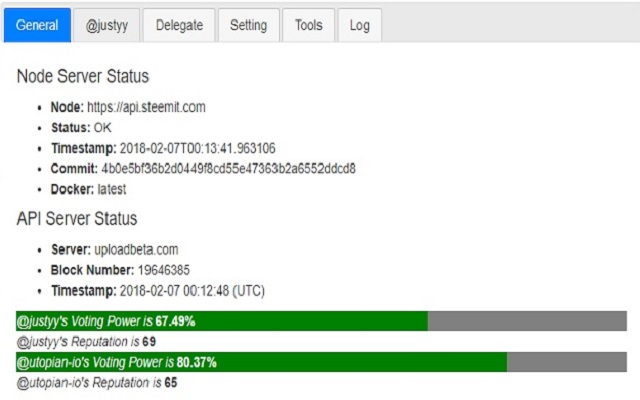
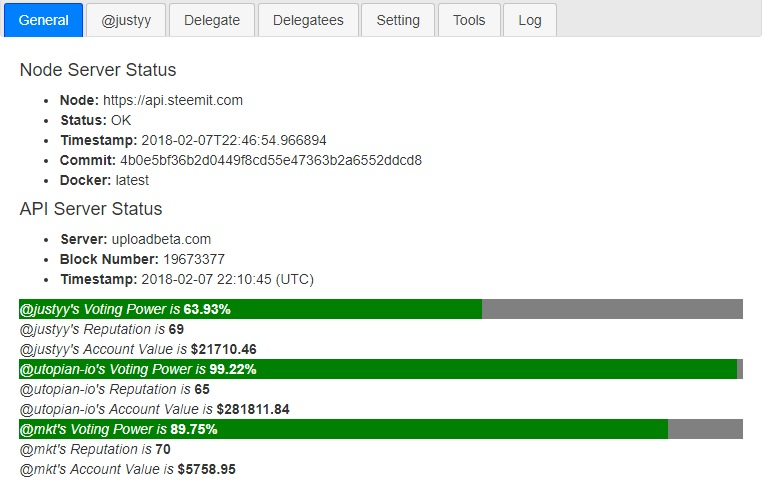
v0.0.3 a list of delegators

diff --git a/js/steemtools.js b/js/steemtools.js
@@ -4,6 +4,11 @@
 const default_node = 'https://api.steemit.com';
 steem.api.setOptions({ url: default_node });
 
+// get Node
+const getNode = () => {
+    return $('select#nodes').val();
+}
+
 // default server
 const default_server = 'helloacm.com';
 
@@ -21,6 +26,9 @@ const getIdForDiv = (id) => {
 
 // try best to return a valid steem id
 const prepareId = (id) => {
+    if (id == undefined) {
+        return "";
+    }
     return id.replace("@", "").trim().toLowerCase();
 }
 
@@ -86,6 +94,7 @@ function getVP(id, dom, server) {
 
 // get curation stats
 function getCuration(id, dom, server) {
+    server = server || default_server;
     let api = 'https://' + server + '/api/steemit/account/curation/?cached&id=' + id;
     logit("calling " + api);
     $.ajax({
@@ -150,6 +159,7 @@ const getAccountValue = (id, dom, server) => {
 
 // get api server infor
 function getServerInfo(server, dom) {
+    server = server || default_server;
     let api = 'https://' + server + '/api/steemit/blocknumber/steemsql';
     logit("calling " + api);
     $.ajax({
@@ -228,6 +238,7 @@ document.addEventListener('DOMContentLoaded', function() {
                     getRep(id, $("div#account_rep"), settings['nodes']);
                     getAccountValue(id, $("div#account_value"), settings['nodes']);
                     $('input#delegator').val(id);
+                    $('input#delegatorid').val(id);
                     $('input#delid').val(id);
                     $('a#profile').html("@" + id);
                     $('h4#profile_id').html("@" + id);
@@ -330,12 +341,67 @@ document.addEventListener('DOMContentLoaded', function() {
             alert('Not a Valid Steem ID.');
         }
     });
+    // find a list of delegators
+    // search a id when press Enter
+    textPressEnterButtonClick($('input#delegatorid'), $('button#delegators_btn'));
+    $('button#delegators_btn').click(function() {
+        let id = prepareId($('input#delegatorid').val());
+        let server = getServer();
+        server = server || default_server;
+        $('div#delegators_div').html('<img src="images/loading.gif"/>');
+        if (validId(id)) {
+            $.ajax({ 
+                dataType: "json",
+                url: "https://" + server + "/api/steemit/delegators/?cached&id="+id,
+                cache: false,
+                success: function (response) {
+                    let result = response;
+                    if (result && result.length > 0) {
+                        let s = '<h4><B>' + result.length + '</B> Delegator(s)</h4>';
+                        s += '<table id="dvlist2" class="sortable">';
+                        s += '<thead><tr><th>Delegator</th><th>Steem Power (SP)</th><th>Vests</th><th>Time</th></tr></thead><tbody>';
+                        let total_sp = 0;
+                        let total_vest = 0;
+                        for (let i = 0; i < result.length; i ++) {
+                            total_sp += result[i]['sp'];
+                            total_vest += result[i]['vests'];  
+                            s += '<tr>';
+                            s += '<td><a target=_blank rel=nofollow href="https://steemit.com/@' + result[i]['delegator'] + '">@' + result[i]['delegator'] + '</a><BR/><img style="width:75px;height:75px" src="https://steemitboard.com/@' + result[i]['delegator'] + '/level.png"></td>';
+                            s += '<td>' + (result[i]['sp']).toFixed(2) + '</td>';
+                            s += '<td>' + (result[i]['vests']).toFixed(2) + '</td>';
+                            s += '<td>' + result[i]['time'] + '</td>';
+                            s += '</tr>';
+                        }              
+                        s += '</tbody>';
+                        s += '<tfoot><tr>';
+                        s += '<th>Total: </th><th></th><th>' + (total_sp.toFixed(2)) + ' SP</th><th>' + (total_vest.toFixed(2)) + ' VESTS</th><th></th>'; 
+                        s += '</tr></tfoot>';
+                        s += '</table>';
+                        $('div#delegators_div').html(s);
+                        $('div#delegators_div_stats').html(total_sp.toFixed(2) + " SP, " + total_vest.toFixed(2) + " VESTS");
+                        sorttable.makeSortable(document.getElementById("dvlist2"));
+                    } else {
+                        $('div#delegators_div').html("<font color=blue>It could be any of these: (1) No Delegators (2) Invalid ID (3) API or SteemSQL server failed. Contact <a rel=nofollow target=_blank href='https://steemit.com/@justyy/'>@justyy</a> if you are not sure. Thanks!</font>");
+                    }          
+                },
+                error: function(request, status, error) {
+                    $('div#delegators_div').html('<font color=red>API/SteemSQL Server (' + server + error + ') is currently offline. Please try again later!' + request.responseText + '</font>');
+                },          
+                complete: function(data) {
+                
+                }
+            });
+        } else {
+            alert('Not a Valid Steem ID.');
+        }        
+    })            
     // find a list of delegatees
     // search a id when press Enter
     textPressEnterButtonClick($('input#delid'), $('button#delegatees_btn'));
     $('button#delegatees_btn').click(function() {
         let id = prepareId($('input#delid').val());
         let server = getServer();
+        server = server || default_server;
         $('div#delegatees_div').html('<img src="images/loading.gif"/>');
         if (validId(id)) {
             $.ajax({ 
@@ -345,7 +411,7 @@ document.addEventListener('DOMContentLoaded', function() {
                 success: function (response) {
                     let result = response;
                     if (result && result.length > 0) {
-                        let s = '<h4><B>' + result.length + '</B> Delegatee(s) <div id="stats"> </div></h4>';
+                        let s = '<h4><B>' + result.length + '</B> Delegatee(s)</h4>';
                         s += '<table id="dvlist" class="sortable">';
                         s += '<thead><tr><th>Delegatee</th><th>Steem Power (SP)</th><th>Vests</th><th>Time</th></tr></thead><tbody>';
                         let total_sp = 0;

diff --git a/main.html b/main.html
@@ -38,6 +38,7 @@
         <li><a id="profile" href="#tabs-profile">Profile</a></li>
         <li><a href="#tabs-delegate-form">Delegate</a></li>
         <li><a href="#tabs-delegatees">Delegatees</a></li>
+        <li><a href="#tabs-delegators">Delegators</a></li>
         <li><a href="#tabs-setting">Setting</a></li>
         <li><a href="#tabs-tools">Tools</a></li>
         <li><a href="#tabs-log">Log</a></li>        
@@ -82,7 +83,13 @@
         <p><button class='form-control' style='width: 70px' id='delegatees_btn'>Query</button></p>
         <div id='delegatees_div'> </div>
         <div id='delegatees_div_stats'> </div>
-      </div>               
+      </div>  
+      <div id="tabs-delegators">
+        <p><h4>Your SteemId ID: </h4><input type='text' class='form-control' id='delegatorid' name='delegatorid' placeholder="Your Steem ID without @" value=''></p>
+        <p><button class='form-control' style='width: 70px' id='delegators_btn'>Query</button></p>
+        <div id='delegators_div'> </div>
+        <div id='delegators_div_stats'> </div>
+      </div>                    
       <div id="tabs-setting">
         <p><h4>Your SteemId ID: </h4><input type='text' class='form-control' id='steemit_id' name='steemit_id' placeholder="Your Steem ID without @" value=''></p>
         <p>
